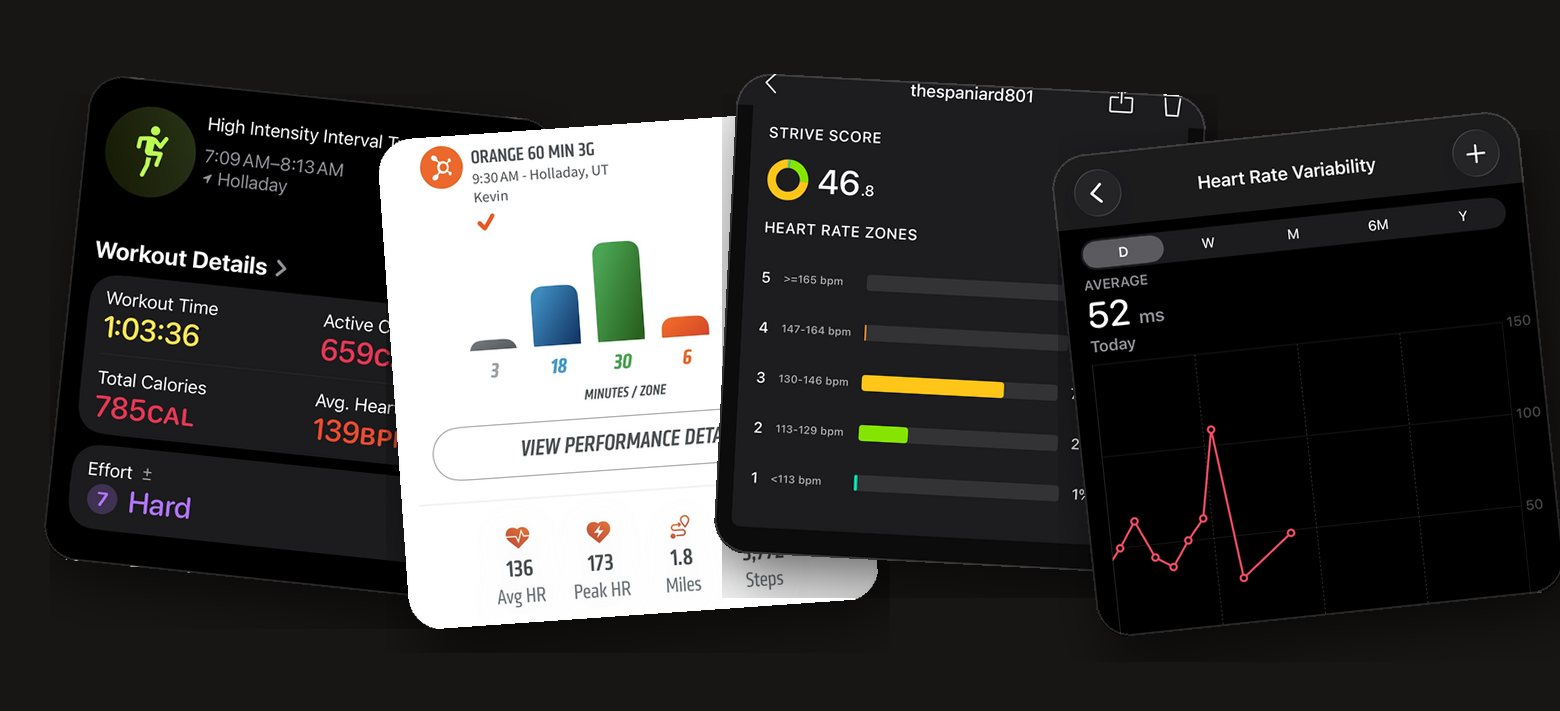
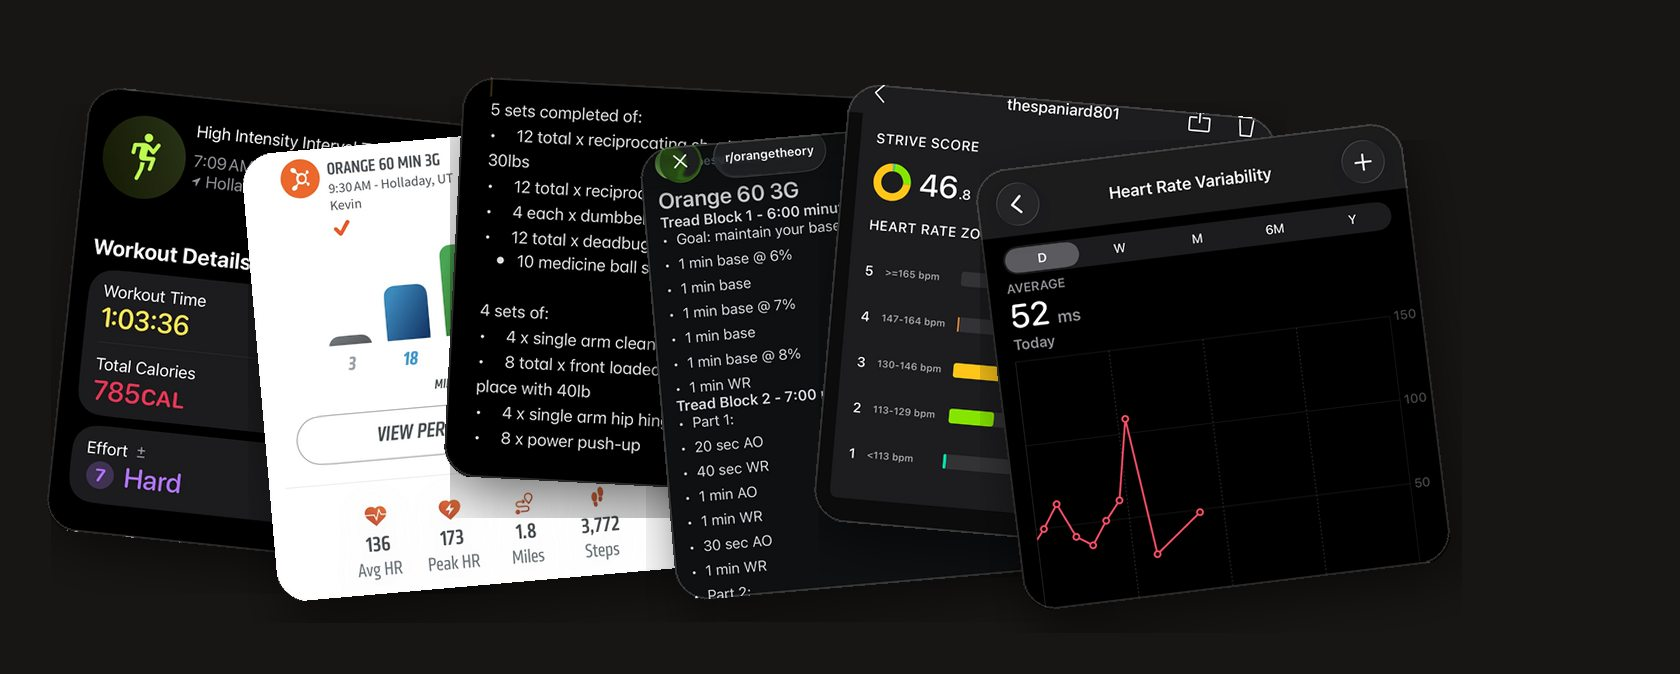
About: expand the before-pile to 6 sources incl. Reddit + a note
Adds the Reddit class format and the hand-typed strength note (with
weights) to the composite — the manual assembly, not just the scattered
app data. Copy and caption updated to match.

diff --git a/public/about.html b/public/about.html
@@ -196,12 +196,12 @@
       <p class="kicker">The problem</p>
       <h2 class="h-section">Health is holistic. The tools are not.</h2>
       <p>Your training, your sleep, your nutrition and your blood work each live in a different app. Every one holds a real piece of the picture. Not one of them holds all of it.</p>
-      <p>Your bike knows your output. The studio knows your splat points. Apple Health knows your HRV. None of them know about the others, and your labs are a PDF nobody connects to anything.</p>
+      <p>Your bike knows your output. The studio knows your splat points. Apple Health knows your HRV. The strength work is a plan you found on Reddit and the weights you lifted are typed into a note. Nothing talks to anything.</p>
     </div>
     <div class="beat-inner wide" data-reveal>
       <figure class="figure">
-        <img src="screens/about-before.jpg" alt="Four workout and health screenshots from four different apps, spread out: an Apple Fitness HIIT summary, an Orangetheory minutes-per-zone chart, a Peloton output and heart-rate view, and an Apple Health HRV graph" onerror="this.closest('figure').remove()" />
-        <figcaption>One workout, one morning. Four apps, four pieces.</figcaption>
+        <img src="screens/about-before.jpg" alt="Six screenshots from one morning's training, spread out: an Apple Fitness HIIT summary, an Orangetheory workout, a hand-typed note of the strength sets and weights, a Reddit post with the class format, a Peloton output view, and an Apple Health HRV graph" onerror="this.closest('figure').remove()" />
+        <figcaption>One workout. Data in three apps, the plan on Reddit, the weights in a note.</figcaption>
       </figure>
     </div>
     <div class="beat-inner story" data-reveal>
